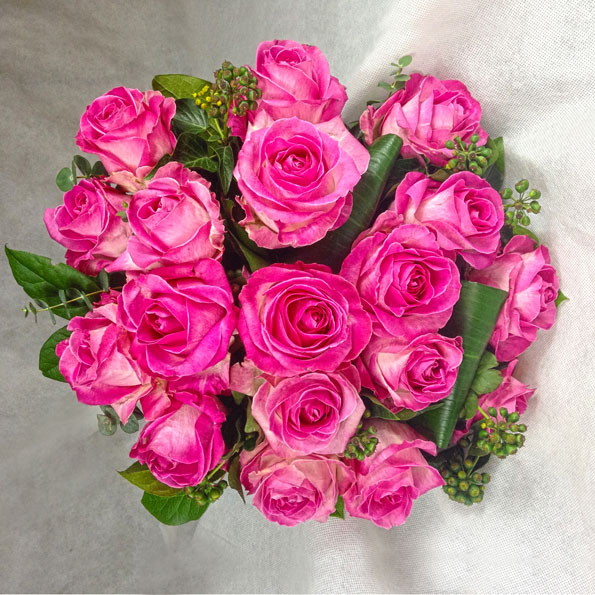
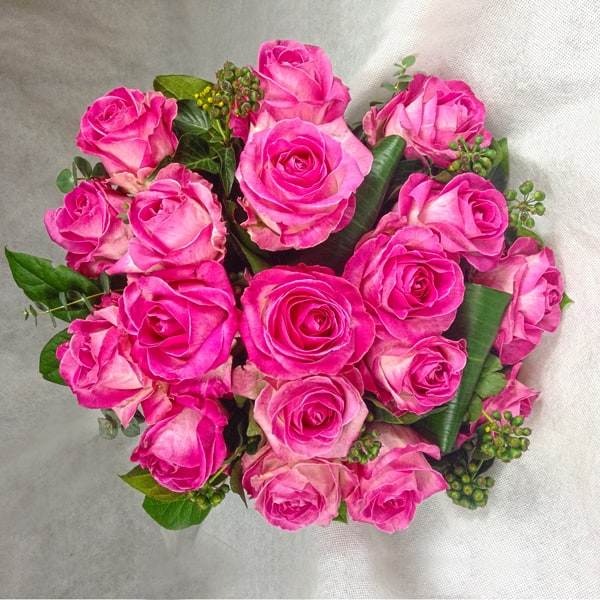
image

diff --git a/index.html b/index.html
@@ -60,7 +60,7 @@
         </div>
         <div class="col s12 m4">
           <div class="icon-block">
-            <img class="responsive-img materialboxed center" data-caption="pink Roses, white Hydrangea, pink Bouvardia, and cream Germini" width="790" src="images/pink-mx.jpg">
+            <img class="responsive-img materialboxed center" data-caption="pink Roses, white Hydrangea, pink Bouvardia, and cream Germini" width="595" src="images/pink-mx.jpg">
             <h5 class="left-align">REDINGTON</h5>
             <p class="left-align">FROM £35</p>
             <img class="responsive-img materialboxed center" data-caption="Memory Lane Roses, purple Lisianthus, Thistle, Antique Carnations, green Hypericum, purple Brassica" width="790" src="images/purple-mx.jpg">
